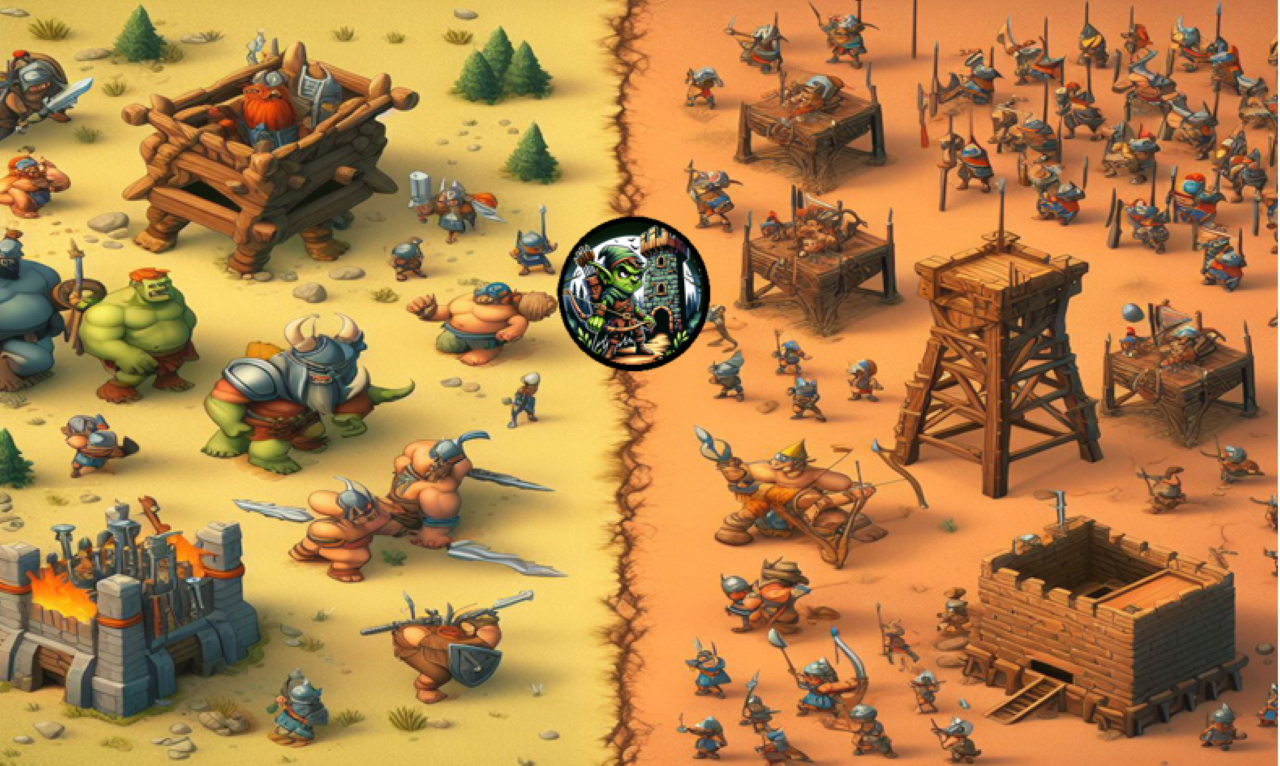
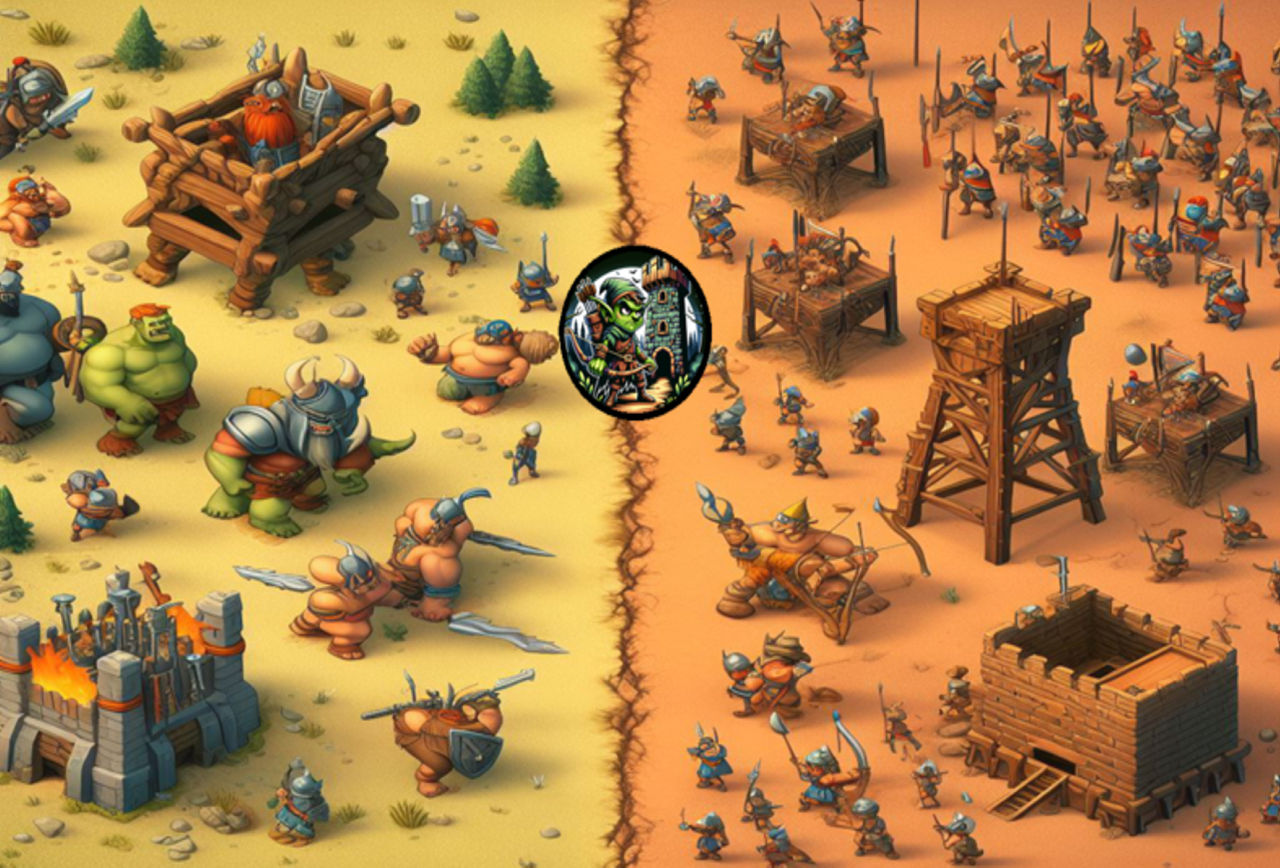
Modification barre de chargement

diff --git a/frontend/src/Components/Game/Scenes/PreloadScene.js b/frontend/src/Components/Game/Scenes/PreloadScene.js
@@ -44,16 +44,8 @@ class PreloadScene extends Phaser.Scene {
         const centerX = this.cameras.main.width / 2 - progressBarWidth / 2;
         const centerY = this.cameras.main.height / 2 - progressBarHeight / 2;
 
-        // Créer la boîte de la barre de chargement
-        this.progressBox = this.add.graphics();
-        this.progressBox.fillStyle(0x222222, 0.8);
-        this.progressBox.fillRect(centerX, centerY, progressBarWidth, progressBarHeight);
-
         // Créer la barre de chargement
         this.progressBar = this.add.graphics();
-
-        // Charger les ressources ici
-        // this.load.image('nomImage', 'chemin/vers/limage.png');
 
         // Mettre à jour la barre de chargement
         this.load.on('progress', (value) => {

diff --git a/frontend/src/Components/Pages/GamePage.js b/frontend/src/Components/Pages/GamePage.js
@@ -12,7 +12,7 @@ const GamePage = () => {
   const config = {
     scale: {
       width: 1280,
-      height: 768,
+      height: 868,
       autoCenter: Phaser.Scale.CENTER_BOTH,
       mode: Phaser.Scale.FIT,
       Audio:true
